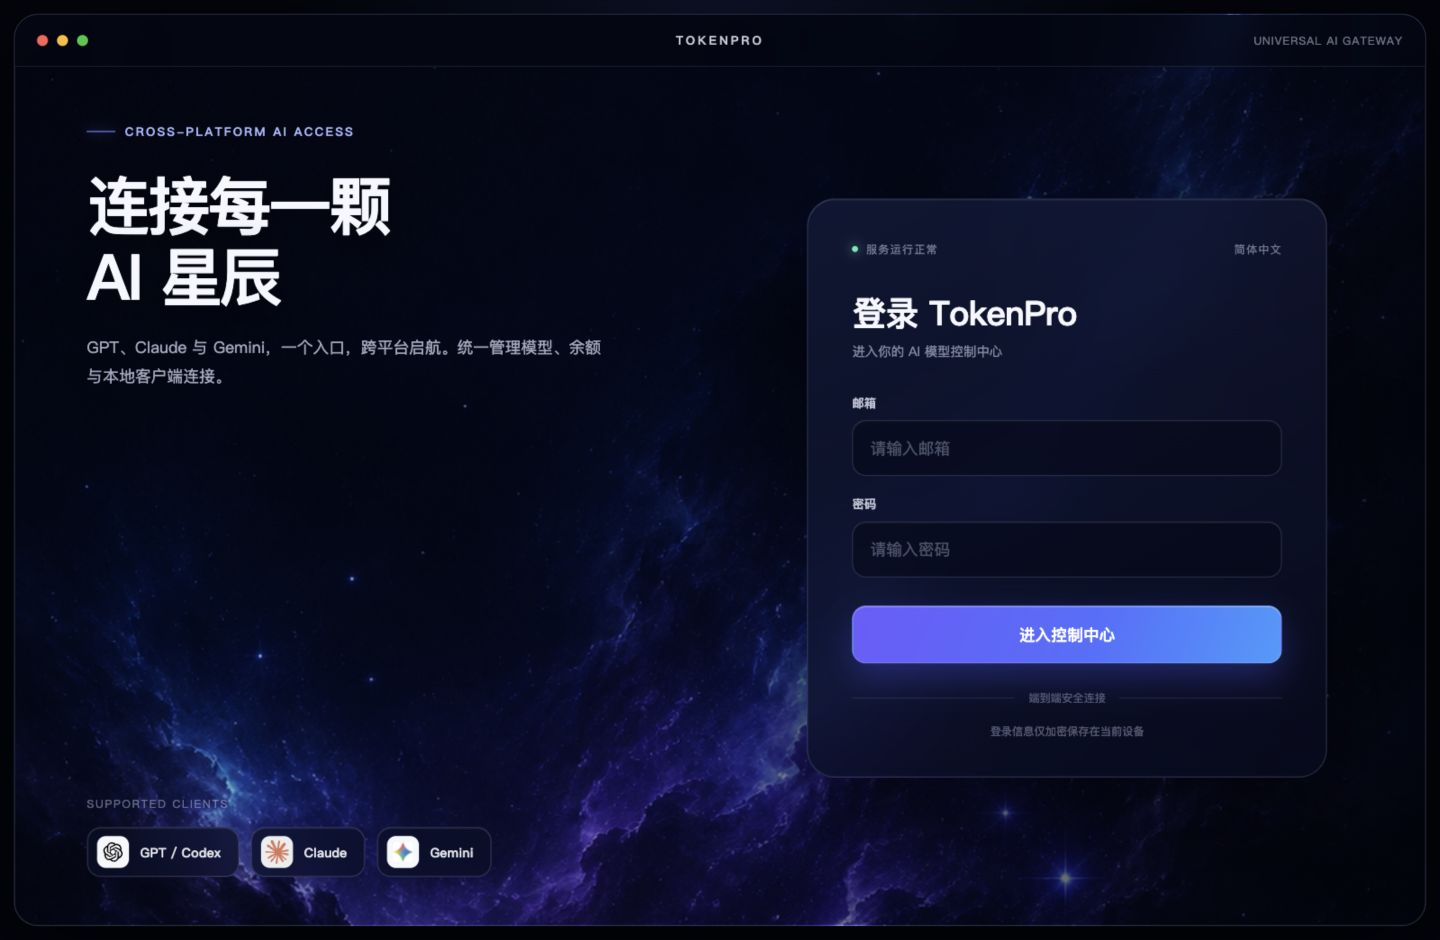
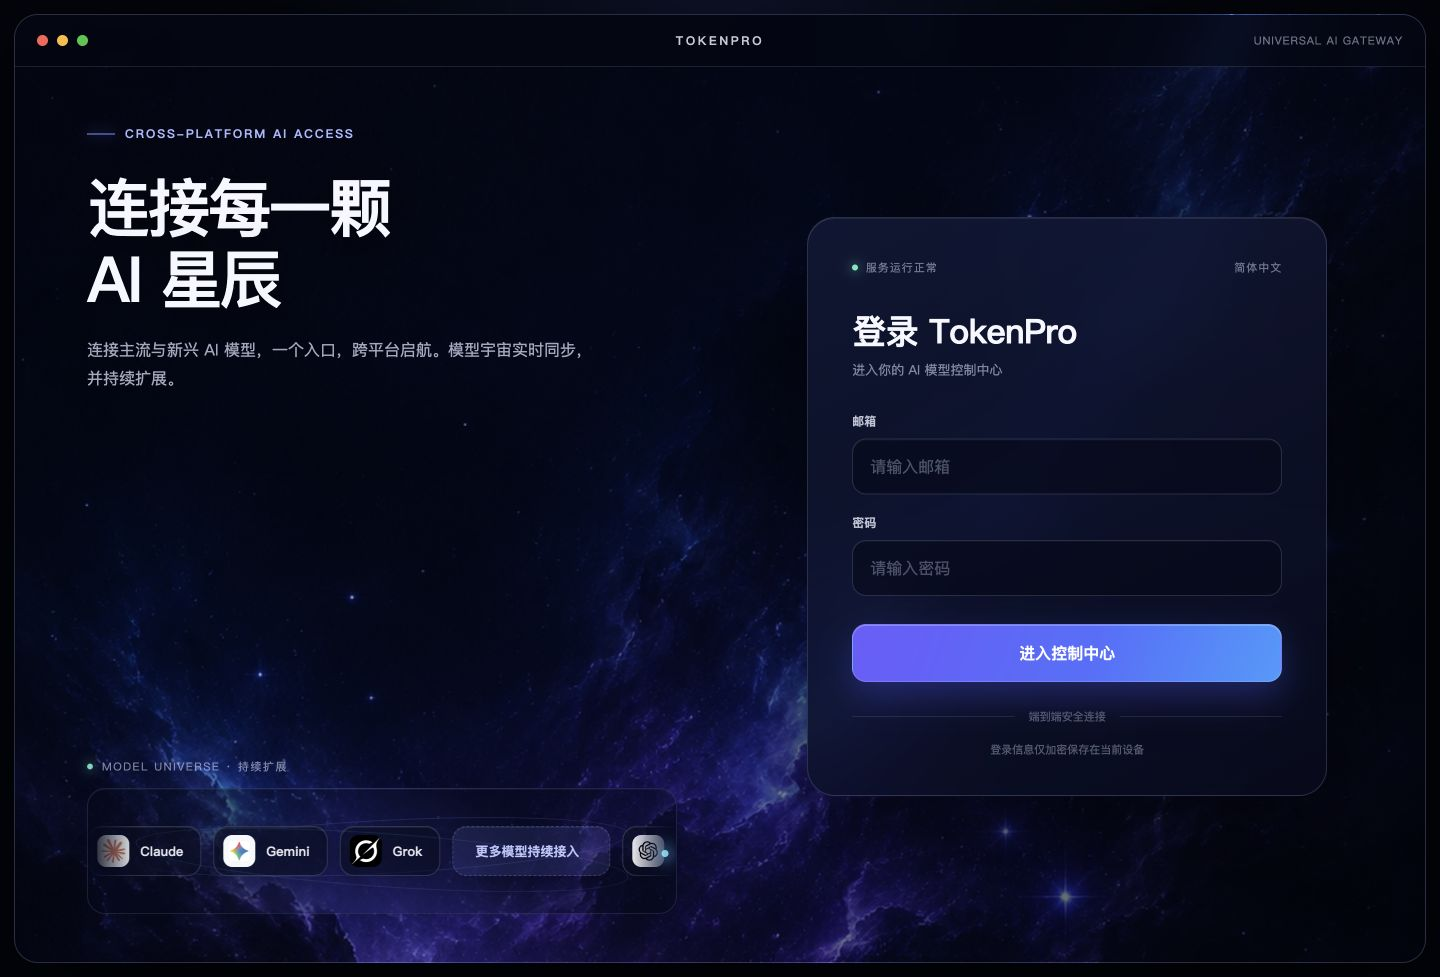
Animate expanding model universe

diff --git a/design-preview/index.html b/design-preview/index.html
@@ -103,9 +103,15 @@
       font-size: 16px;
       line-height: 1.8;
     }
-    .orbit-copy { margin-top: auto; }
-    .orbit-label { color: rgba(205, 215, 248, .46); font-size: 11px; letter-spacing: .14em; }
-    .clients { display: flex; flex-wrap: wrap; gap: 12px; margin-top: 16px; max-width: 560px; }
+    .orbit-copy { margin-top: auto; width: min(590px,100%); }
+    .orbit-label { display: flex; align-items: center; gap: 9px; color: rgba(205,215,248,.58); font-size: 11px; letter-spacing: .14em; }
+    .orbit-label::before { content: ""; width: 6px; height: 6px; border-radius: 50%; background: #6ff0ca; box-shadow: 0 0 12px #6ff0ca; animation: livePulse 2s ease-in-out infinite; }
+    .model-universe { position: relative; height: 126px; margin-top: 14px; overflow: hidden; border: 1px solid rgba(191,205,255,.12); border-radius: 18px; background: radial-gradient(circle at 50% 120%, rgba(91,80,235,.28), transparent 55%), rgba(4,9,27,.46); box-shadow: inset 0 1px rgba(255,255,255,.04); }
+    .model-universe::before, .model-universe::after { content: ""; position: absolute; left: 8%; right: 8%; height: 52px; border: 1px solid rgba(121,141,255,.16); border-radius: 50%; transform: rotate(-3deg); }
+    .model-universe::before { top: 31px; }
+    .model-universe::after { top: 44px; transform: rotate(4deg); border-color: rgba(95,206,255,.10); }
+    .model-viewport { height: 100%; display: flex; align-items: center; overflow: hidden; mask-image: linear-gradient(90deg,transparent,#000 8%,#000 92%,transparent); }
+    .clients { display: flex; flex-wrap: nowrap; gap: 12px; width: max-content; padding: 0 6px; animation: modelDrift 22s linear infinite; }
     .client {
       display: flex;
       align-items: center;
@@ -130,6 +136,12 @@
       background: #f7f8fb;
     }
     .client.claude img { padding: 4px; background: rgba(255,255,255,.92); }
+    .client.grok img { padding: 0; background: #000; }
+    .client.more { min-width: 158px; justify-content: center; color: #bdc7ff; border-style: dashed; background: rgba(83,99,189,.18); }
+    .request-pulse { position: absolute; z-index: 2; top: 61px; left: -8px; width: 7px; height: 7px; border-radius: 50%; background: #80e9ff; box-shadow: 0 0 14px 5px rgba(81,190,255,.58); animation: requestFlow 5.4s ease-in-out infinite; pointer-events: none; }
+    @keyframes modelDrift { to { transform: translateX(calc(-50% - 6px)); } }
+    @keyframes requestFlow { 0% { left: -8px; opacity: 0; } 12%,82% { opacity: 1; } 100% { left: calc(100% + 8px); opacity: 0; } }
+    @keyframes livePulse { 50% { opacity: .4; transform: scale(.72); } }
     .login-side { display: grid; place-items: center; padding: 42px 58px 58px 18px; }
     .login-card {
       width: min(520px, 100%);
@@ -337,6 +349,9 @@
       .dash-header, .wallet-zone { padding-left: 28px; padding-right: 28px; }
       .connections { padding-left: 28px; padding-right: 28px; }
     }
+    @media (prefers-reduced-motion: reduce) {
+      .clients, .request-pulse, .orbit-label::before { animation: none; }
+    }
   </style>
 </head>
 <body>
@@ -350,13 +365,25 @@
       <section class="hero">
         <div class="eyebrow">CROSS-PLATFORM AI ACCESS</div>
         <h1>连接每一颗<br />AI 星辰</h1>
-        <p class="lead">GPT、Claude 与 Gemini，一个入口，跨平台启航。统一管理模型、余额与本地客户端连接。</p>
+        <p class="lead">连接主流与新兴 AI 模型，一个入口，跨平台启航。模型宇宙实时同步，并持续扩展。</p>
         <div class="orbit-copy">
-          <div class="orbit-label">SUPPORTED CLIENTS</div>
-          <div class="clients">
-            <div class="client"><img src="../Resources/OpenAIBlossomOfficial.svg" alt="OpenAI" />GPT / Codex</div>
-            <div class="client claude"><img src="../Resources/ClaudeSparkOfficial.svg" alt="Claude" />Claude</div>
-            <div class="client"><img src="../Resources/GeminiOfficial.svg" alt="Gemini" />Gemini</div>
+          <div class="orbit-label">MODEL UNIVERSE · 持续扩展</div>
+          <div class="model-universe">
+            <span class="request-pulse" aria-hidden="true"></span>
+            <div class="model-viewport">
+              <div class="clients">
+                <div class="client"><img src="../Resources/OpenAIBlossomOfficial.svg" alt="Codex" />Codex</div>
+                <div class="client claude"><img src="../Resources/ClaudeSparkOfficial.svg" alt="Claude" />Claude</div>
+                <div class="client"><img src="../Resources/GeminiOfficial.svg" alt="Gemini" />Gemini</div>
+                <div class="client grok"><img src="../Resources/GrokOfficial.png" alt="Grok" />Grok</div>
+                <div class="client more">更多模型持续接入</div>
+                <div class="client" aria-hidden="true"><img src="../Resources/OpenAIBlossomOfficial.svg" alt="" />Codex</div>
+                <div class="client claude" aria-hidden="true"><img src="../Resources/ClaudeSparkOfficial.svg" alt="" />Claude</div>
+                <div class="client" aria-hidden="true"><img src="../Resources/GeminiOfficial.svg" alt="" />Gemini</div>
+                <div class="client grok" aria-hidden="true"><img src="../Resources/GrokOfficial.png" alt="" />Grok</div>
+                <div class="client more" aria-hidden="true">更多模型持续接入</div>
+              </div>
+            </div>
           </div>
         </div>
       </section>

diff --git a/design-qa.md b/design-qa.md
@@ -1,13 +1,13 @@
 **Comparison target**
 
 - Structural reference: `/var/folders/1s/tl_s3grd4p50bs85w46x1h9h0000gn/T/codex-clipboard-585fbf82-8d0b-430d-b9d5-9278b02a1522.png`
-- New art direction: original deep-space cosmos theme with official OpenAI and Claude marks
+- New art direction: original deep-space cosmos theme with official OpenAI, Claude, Gemini, and Grok marks
 - Rendered implementation: `/Users/Tiger/Desktop/TokenPro/design-preview/tokenpro-cosmos-login.jpg`
 - Post-login implementation: `/Users/Tiger/Desktop/TokenPro/design-preview/tokenpro-dashboard-gemini.jpg`
 - In-app browser implementation: `/Users/Tiger/Desktop/TokenPro/design-preview/tokenpro-in-app-browser.jpg`
 - Account implementation: `/Users/Tiger/Desktop/TokenPro/design-preview/tokenpro-account.jpg`
 - Combined comparison: `/Users/Tiger/Desktop/TokenPro/design-preview/tokenpro-cosmos-comparison.jpg`
-- Viewport and implementation pixels: 1440 × 940 at 1× density
+- Viewport and implementation pixels: 1440 × 977 at 1× density
 - State: desktop login, light inputs empty, service available
 
 **Findings**
@@ -18,13 +18,14 @@
 - [Resolved P2] The prior large white rounded window felt heavy. The redesign uses a thin dark window outline, compact translucent title bar, and one floating glass card.
 - [Resolved P1] The dashboard matches the supplied sidebar, wallet, account, navigation, and four-row client-list hierarchy while retaining TokenPro's cosmos palette and glass surfaces.
 - [Resolved P1] Model content now matches the supplied reference: Codex client, Claude client, Codex CLI, and Claude CLI, including installed/download states and action labels.
+- [Resolved P1] The login hero now presents Codex, Claude, Gemini, and Grok as a continuously moving sample of the model universe, followed by “更多模型持续接入” so the interface does not imply a four-model limit.
 
 **Required fidelity surfaces**
 
 - Fonts and typography: strong 70 px Chinese display headline, compact 34 px login title, restrained uppercase supporting labels, and clear field hierarchy.
 - Spacing and layout rhythm: balanced two-column composition, 52 px title bar, 56 px fields, 58 px primary action, consistent 14/24/28 px radii.
 - Colors and visual tokens: near-black navy base, indigo/violet nebula, cyan highlights, white text, and a blue-violet primary action.
-- Image quality and asset fidelity: 1122 × 1402 generated cosmos artwork is used at cover scale. OpenAI and Claude marks come from official brand sources and retain their native proportions. Interface icons use the existing TokenPro assets and Lucide.
+- Image quality and asset fidelity: 1122 × 1402 generated cosmos artwork is used at cover scale. OpenAI, Claude, Gemini, and Grok marks come from official sources and retain their native proportions. Interface icons use the existing TokenPro assets and Lucide.
 - Copy and content: all TEAMAO-specific wording and unsupported login methods were removed. TokenPro copy reflects email/password authentication.
 
 **Full-view comparison evidence**
@@ -44,6 +45,7 @@ The official marks, input borders, login card, title bar, and CTA were checked a
 - Backend management, documentation, and recharge each open inside the TokenPro browser shell with return, refresh, close, and address controls.
 - The account page contains only the current balance and logout action.
 - The TokenPro app mark uses the approved simplified orbital-star icon at desktop, installer, sidebar, and navigation sizes.
+- The model universe marquee loops without a visible jump, the request pulse travels across the orbit, and reduced-motion mode disables both animations.
 - Logout returns to the login view.
 - Page reload restores the empty login state.
 - Browser console contains no warnings or errors.
@@ -54,9 +56,5 @@ The official marks, input borders, login card, title bar, and CTA were checked a
 - Keep real API authentication as email plus password.
 - Add loading, error, and disabled states during implementation.
 - Sync the approved design back to Figma when the Starter MCP allowance resets.
-
-**Follow-up polish**
-
-- Consider a subtle reduced-motion star drift only after the static Java version matches this frame.
 
 final result: passed
